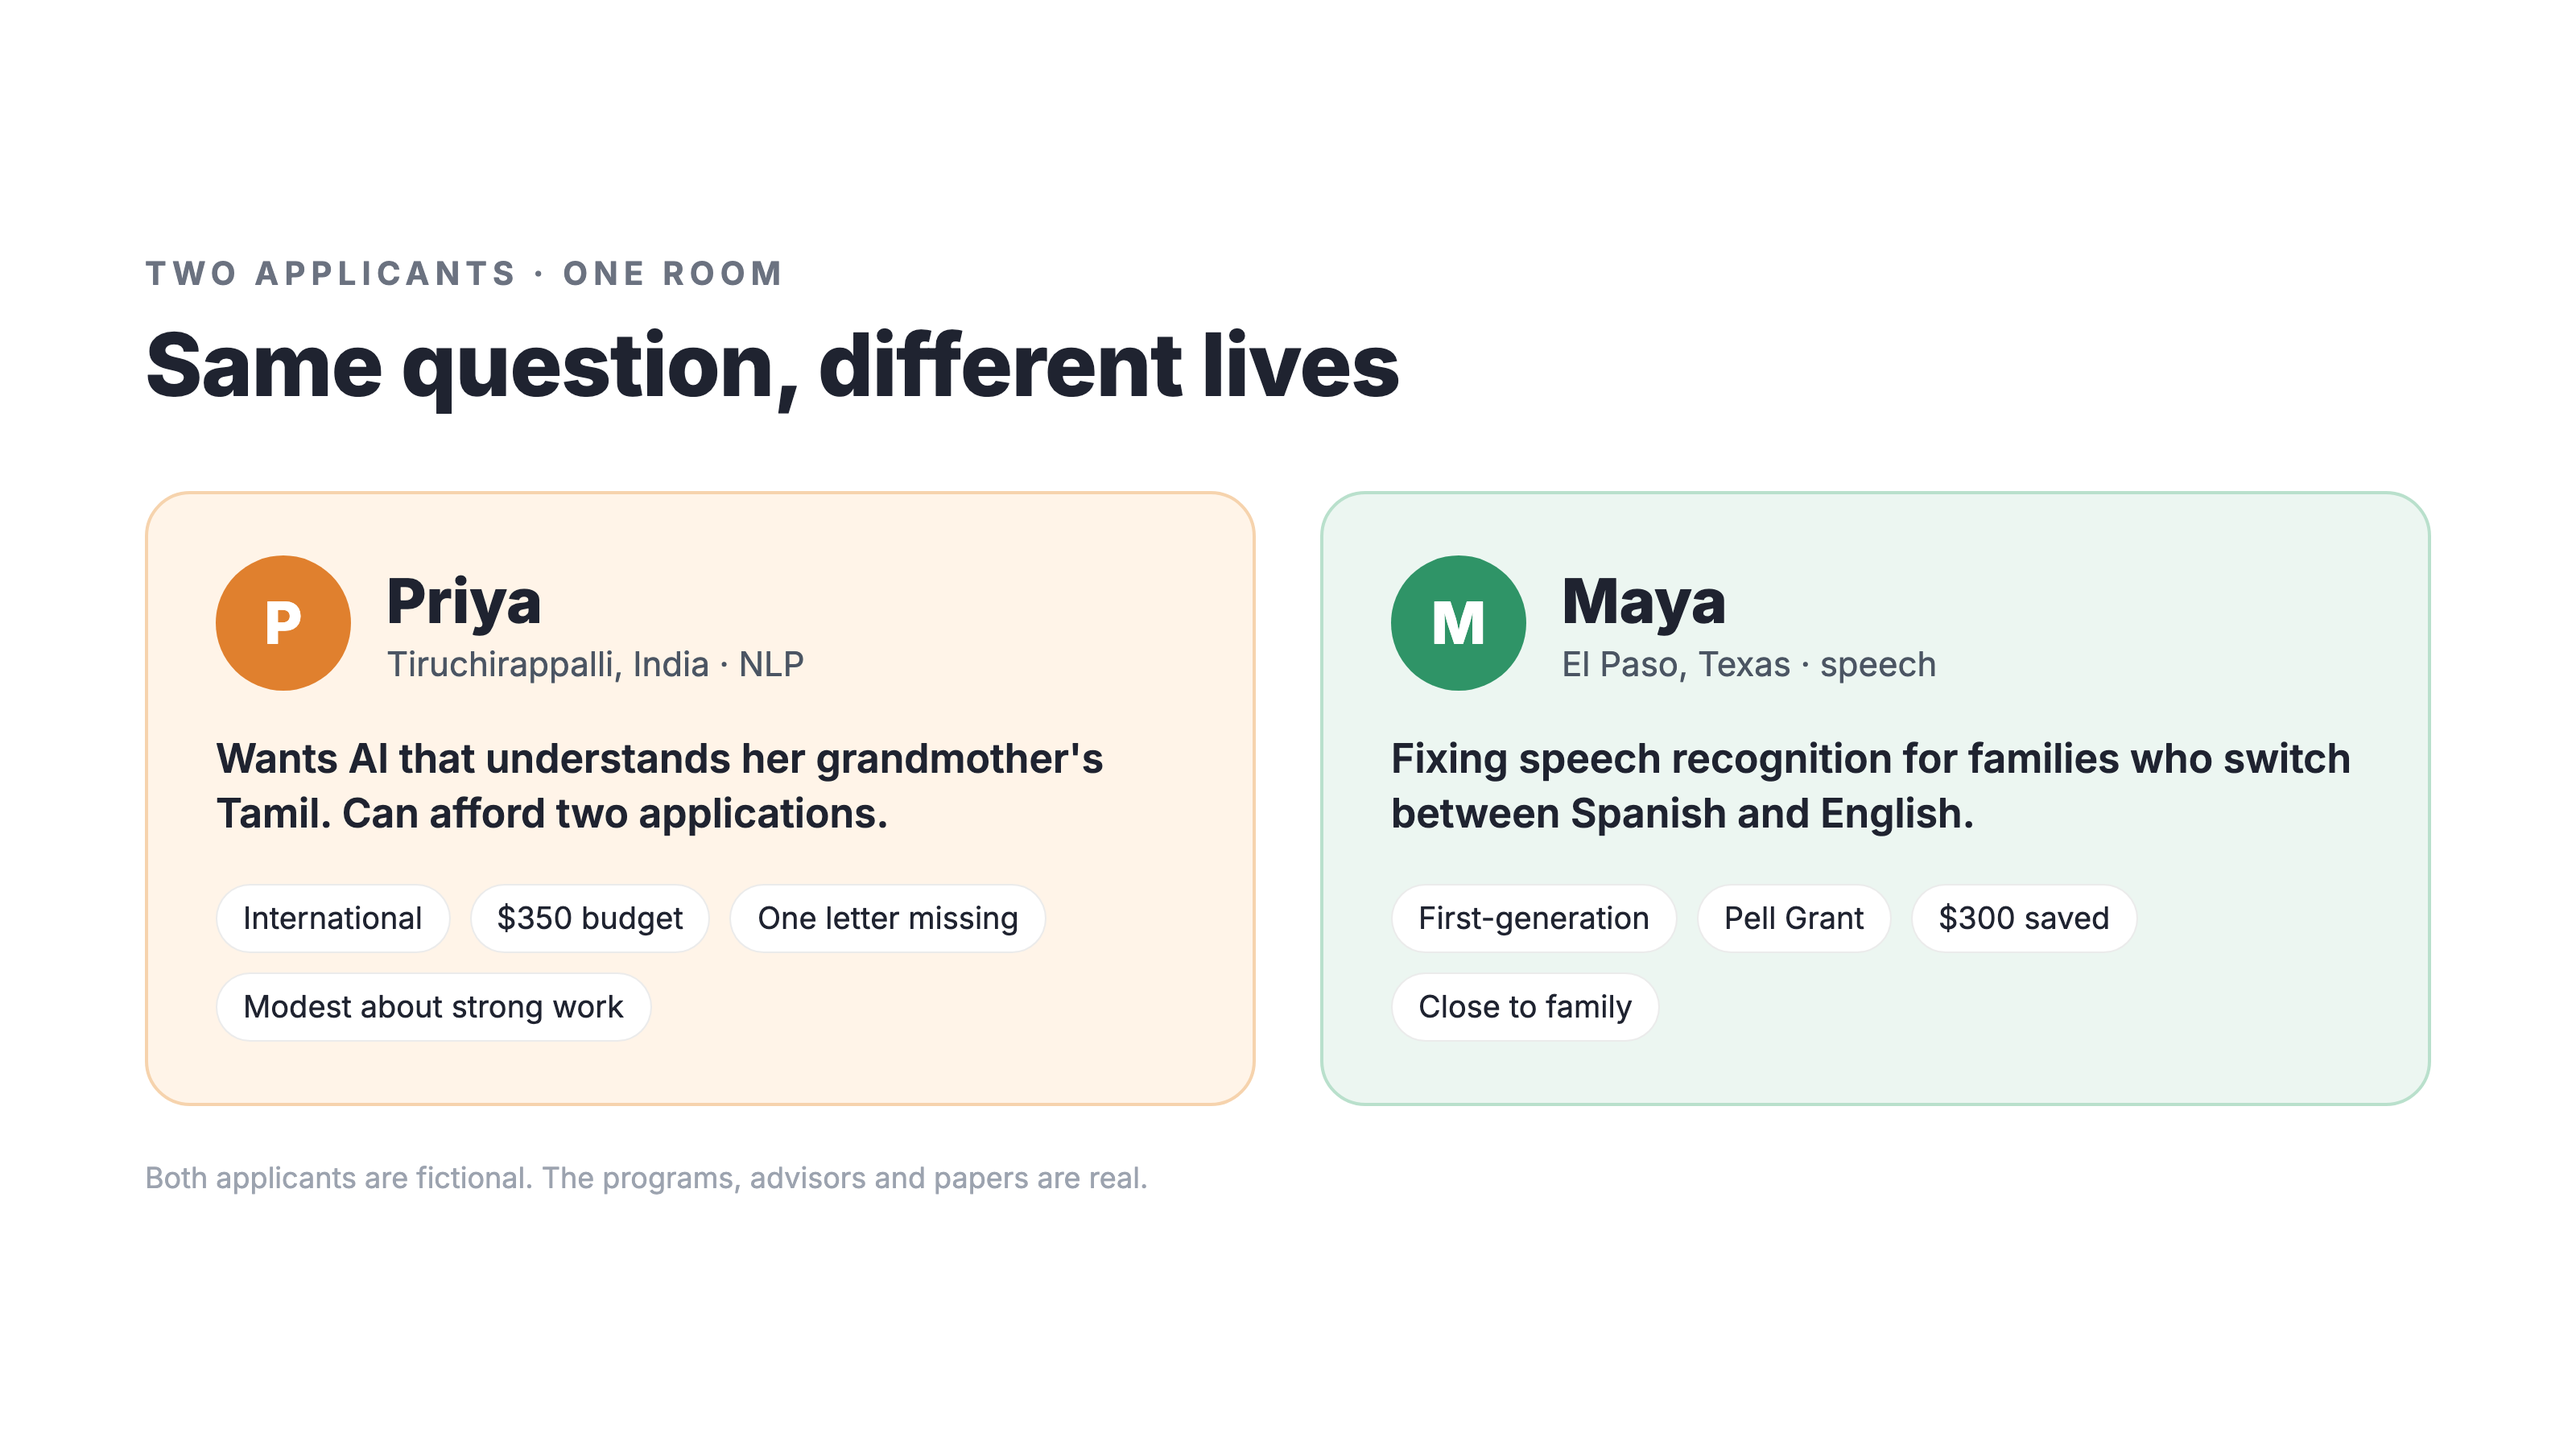
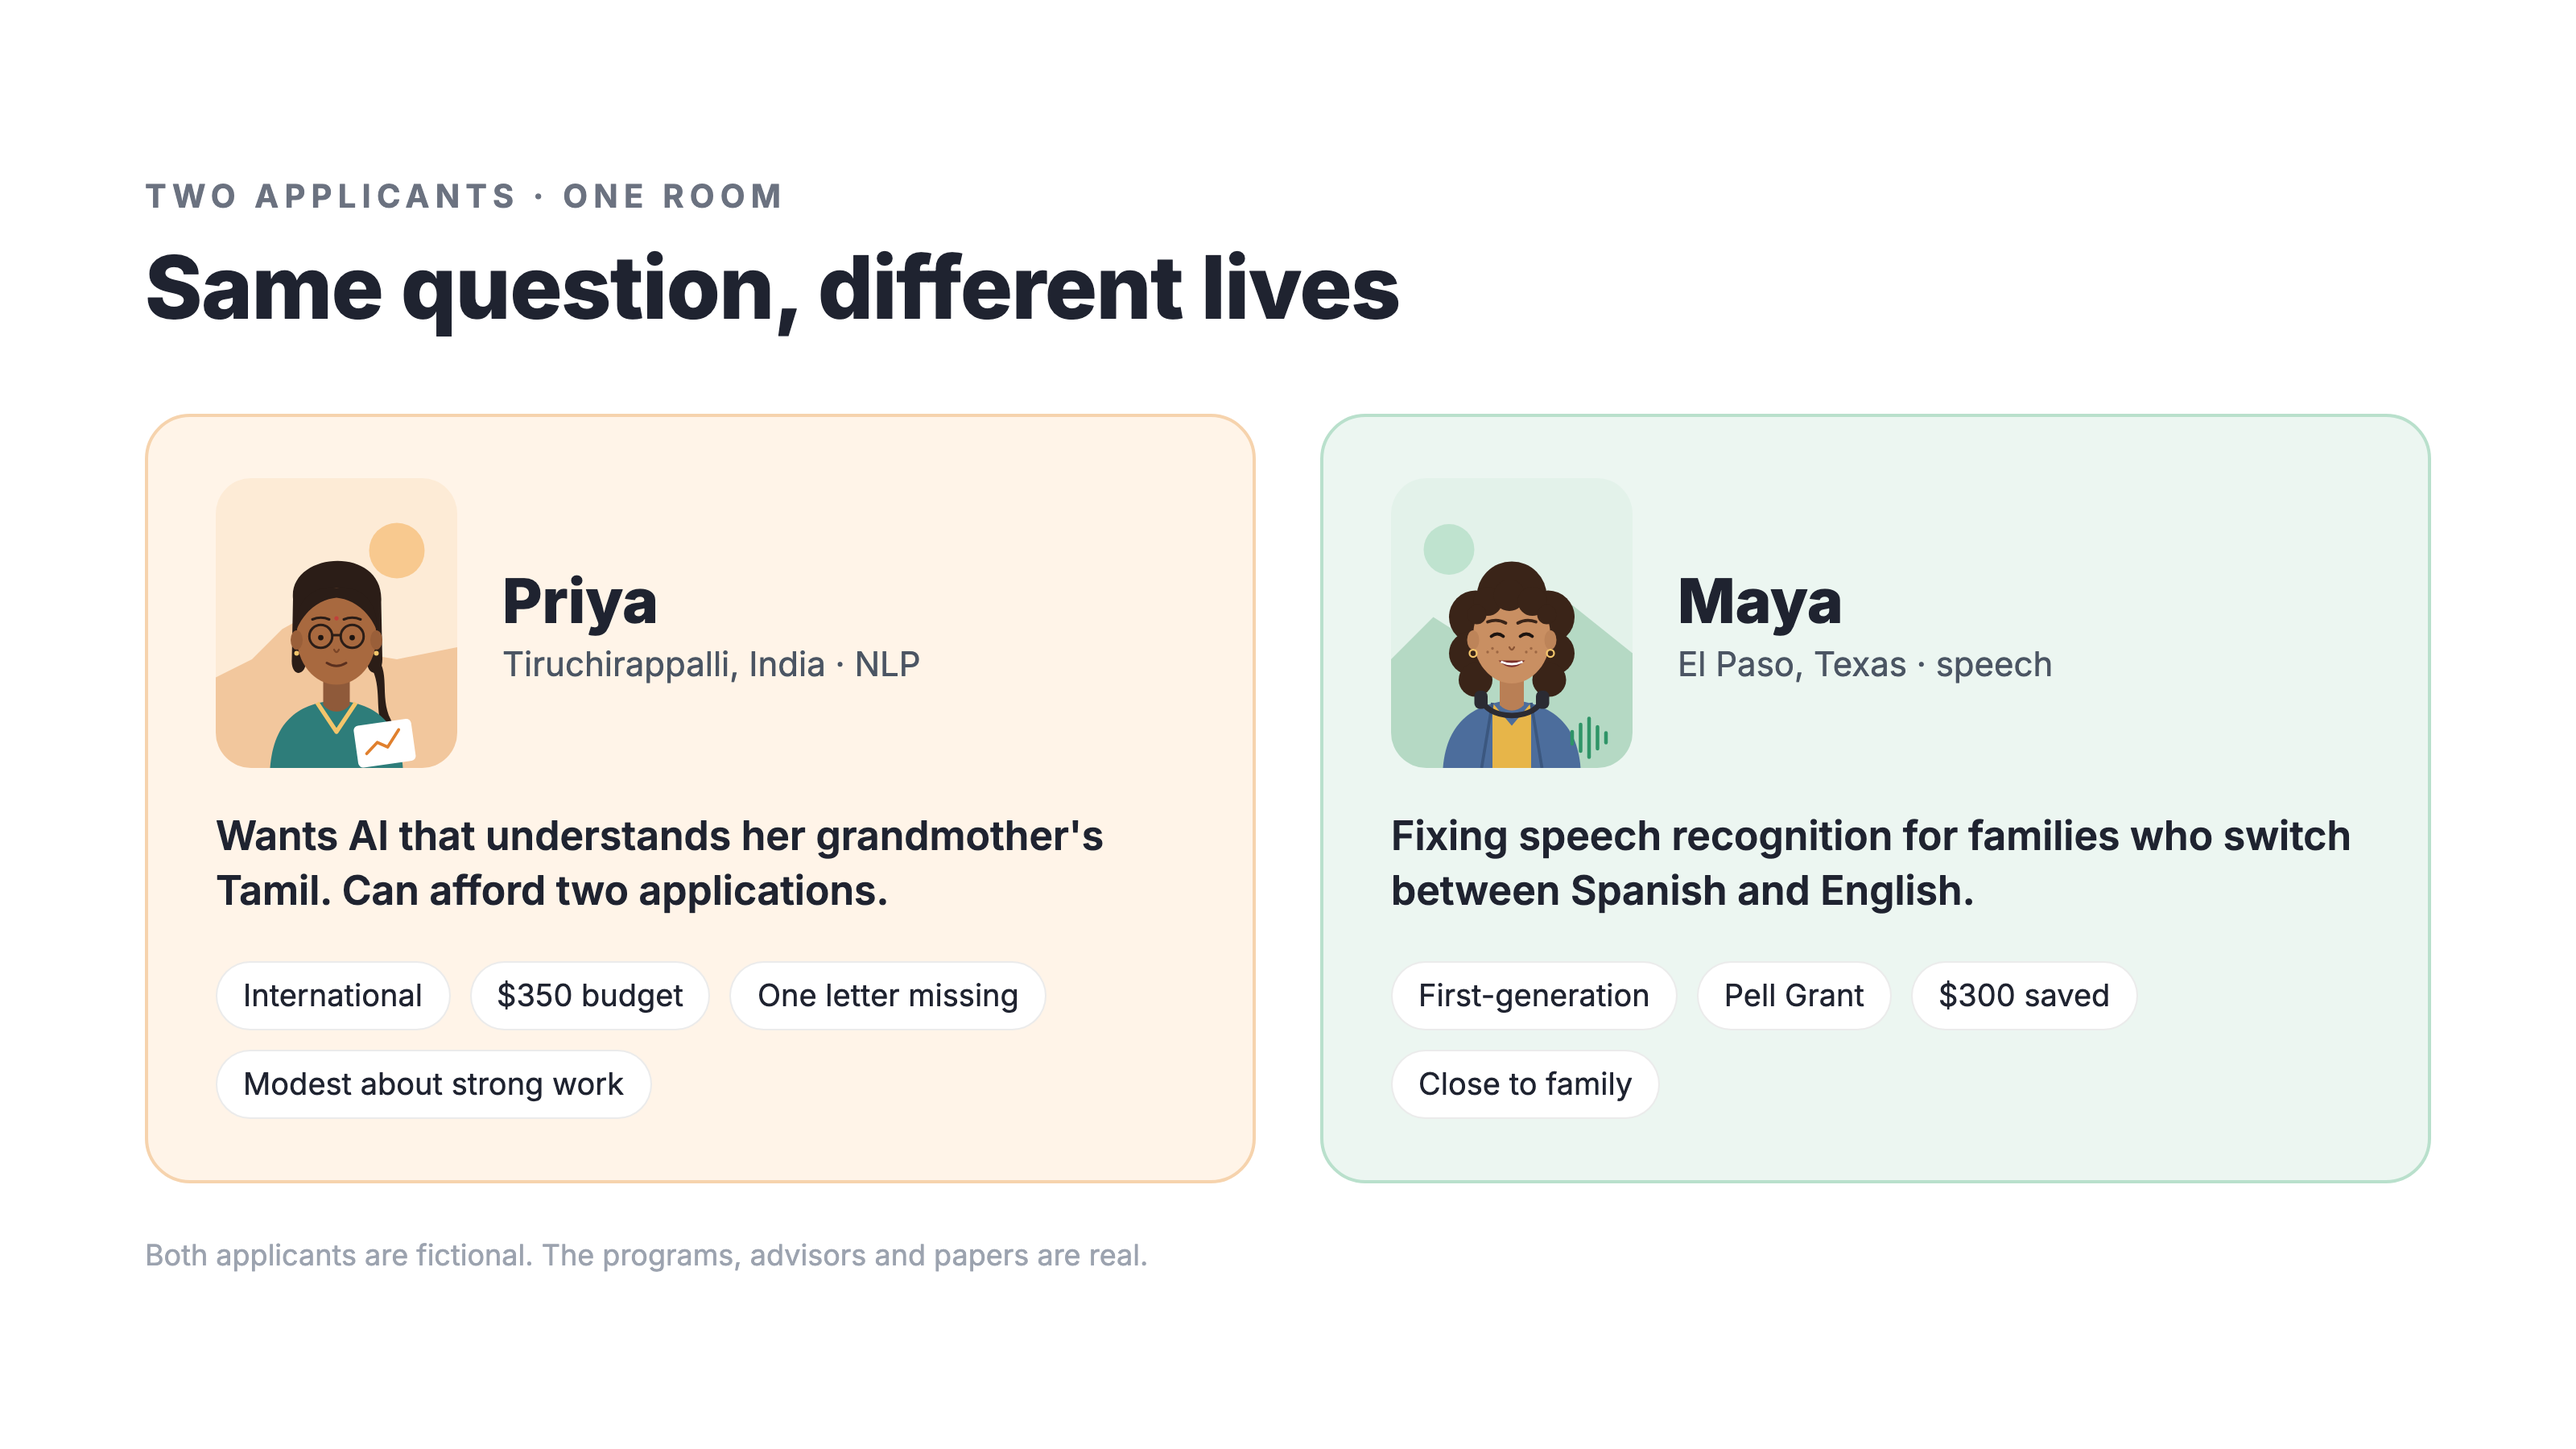
Persona pages with illustrated portraits: side-by-side comparison and a deep page per applicant

diff --git a/docs/video/personas.html b/docs/video/personas.html
@@ -9,9 +9,8 @@ h1{font-size:54px;font-weight:800;margin-top:12px;letter-spacing:-.01em}
 .card{flex:1;border-radius:28px;padding:38px 42px;}
 .p{background:#fff4e8;border:2px solid #f6d3ad}
 .m{background:#ecf6f1;border:2px solid #b9e0cc}
-.top{display:flex;align-items:center;gap:22px}
-.mono{width:84px;height:84px;border-radius:50%;display:grid;place-items:center;font-size:36px;font-weight:800;color:#fff}
-.p .mono{background:#e0802e}.m .mono{background:#2f9467}
+.top{display:flex;align-items:center;gap:28px}
+.pic{width:150px;height:180px;border-radius:22px;flex:none}
 .name{font-size:38px;font-weight:800}
 .where{font-size:21px;color:#4b5563;margin-top:4px}
 .line{font-size:25px;line-height:1.35;margin-top:26px;font-weight:600}
@@ -23,12 +22,12 @@ h1{font-size:54px;font-weight:800;margin-top:12px;letter-spacing:-.01em}
 <h1>Same question, different lives</h1>
 <div class="row">
  <div class="card p">
-  <div class="top"><div class="mono">P</div><div><div class="name">Priya</div><div class="where">Tiruchirappalli, India · NLP</div></div></div>
+  <div class="top"><img class="pic" src="art/priya.svg"><div><div class="name">Priya</div><div class="where">Tiruchirappalli, India · NLP</div></div></div>
   <div class="line">Wants AI that understands her grandmother's Tamil. Can afford two applications.</div>
   <div class="tags"><span class="tag">International</span><span class="tag">$350 budget</span><span class="tag">One letter missing</span><span class="tag">Modest about strong work</span></div>
  </div>
  <div class="card m">
-  <div class="top"><div class="mono">M</div><div><div class="name">Maya</div><div class="where">El Paso, Texas · speech</div></div></div>
+  <div class="top"><img class="pic" src="art/maya.svg"><div><div class="name">Maya</div><div class="where">El Paso, Texas · speech</div></div></div>
   <div class="line">Fixing speech recognition for families who switch between Spanish and English.</div>
   <div class="tags"><span class="tag">First-generation</span><span class="tag">Pell Grant</span><span class="tag">$300 saved</span><span class="tag">Close to family</span></div>
  </div>

diff --git a/docs/video/maya.html b/docs/video/maya.html
@@ -1,0 +1,22 @@
+<!doctype html><html><head><meta charset="utf-8">
+<link href="https://fonts.googleapis.com/css2?family=Inter:wght@400;600;700;800&display=swap" rel="stylesheet">
+<link rel="stylesheet" href="deep.css">
+<style>:root{--soft:#ecf6f1;--line:#b9e0cc;--ink:#237350;--accent:#8fd3b0}</style></head><body>
+<img class="pic" src="art/maya.svg">
+<div class="right">
+ <div class="eyebrow">Applicant two · fictional</div>
+ <h1>Maya, from El Paso</h1>
+ <div class="sub">First-generation CS senior fixing speech recognition for families who switch between Spanish and English.</div>
+ <div class="grid">
+  <div class="c"><b>Why a PhD</b><p>A clinic phone line keeps mishearing her dad when he switches languages.</p></div>
+  <div class="c"><b>What she has</b><p>$300 saved from tutoring. Pell Grant. Three letters, one needs a summary.</p></div>
+  <div class="c"><b>What worries her</b><p>Fees. Moving far from family. Sounding like she doesn't belong.</p></div>
+  <div class="c"><b>Five years out</b><p>Leading speech work for bilingual communities, maybe at a Hispanic-Serving Institution.</p></div>
+  <div class="c"><b>How she talks</b><p>Direct and funny. "How much does it cost?" Switches to Spanish mid-message.</p></div>
+  <div class="c"><b>What she needs</b><p>Money first, then fit. Her data treated as the asset it is.</p></div>
+ </div>
+ <div class="found"><b>What the room found for her</b>
+  <ul><li>All three fees come to $285, so she can apply everywhere even with no waiver.</li>
+  <li>Each school has a waiver she qualifies for, quoted line by line.</li>
+  <li>UMD's waiver must be requested by about Nov 13: first on her calendar.</li></ul></div>
+</div></body></html>

diff --git a/docs/video/priya.html b/docs/video/priya.html
@@ -1,0 +1,22 @@
+<!doctype html><html><head><meta charset="utf-8">
+<link href="https://fonts.googleapis.com/css2?family=Inter:wght@400;600;700;800&display=swap" rel="stylesheet">
+<link rel="stylesheet" href="deep.css">
+<style>:root{--soft:#fff4e8;--line:#f6d3ad;--ink:#b5601a;--accent:#f6b36b}</style></head><body>
+<img class="pic" src="art/priya.svg">
+<div class="right">
+ <div class="eyebrow">Applicant one · fictional</div>
+ <h1>Priya, from Tiruchirappalli</h1>
+ <div class="sub">Final-year CS student who measures how AI fails people who talk like her family. First in the family to apply abroad.</div>
+ <div class="grid">
+  <div class="c"><b>Why a PhD</b><p>Her grandmother speaks only Tamil. Every voice assistant failed her.</p></div>
+  <div class="c"><b>What she has</b><p>$350 from her parents. Enough for two schools. Two strong letters, one missing.</p></div>
+  <div class="c"><b>What worries her</b><p>Picking the wrong two. Writing about herself. Rent on a stipend.</p></div>
+  <div class="c"><b>Five years out</b><p>Leading evaluation for Indian languages, in industry research or as faculty.</p></div>
+  <div class="c"><b>How she talks</b><p>Polite and exact. Says "not sure it's strong enough" about strong work.</p></div>
+  <div class="c"><b>What she needs</b><p>The date or number first. Proof, line by line, when her work is good.</p></div>
+ </div>
+ <div class="found"><b>What the room found for her</b>
+  <ul><li>As an F-1 applicant, only Cornell's fee waiver is open to her.</li>
+  <li>Her strongest evidence is evaluation, so she leads with it, not speech.</li>
+  <li>Cut "I'm not sure this is strong enough": it was.</li></ul></div>
+</div></body></html>

diff --git a/docs/video/deep.css b/docs/video/deep.css
@@ -1,0 +1,15 @@
+*{box-sizing:border-box;margin:0}
+body{width:1600px;height:900px;background:#fff;font-family:Inter,sans-serif;color:#1f2330;display:flex;gap:56px;padding:64px 80px;align-items:center}
+.pic{width:430px;flex:none;border-radius:36px}
+.right{flex:1}
+.eyebrow{font-size:18px;font-weight:700;letter-spacing:.18em;text-transform:uppercase;color:#6b7280}
+h1{font-size:50px;font-weight:800;margin-top:8px;letter-spacing:-.01em}
+.sub{font-size:23px;color:#4b5563;margin-top:8px;line-height:1.35}
+.grid{display:grid;grid-template-columns:1fr 1fr 1fr;gap:16px;margin-top:28px}
+.c{border-radius:20px;padding:18px 20px;background:var(--soft);border:1.5px solid var(--line)}
+.c b{display:block;font-size:14px;letter-spacing:.12em;text-transform:uppercase;color:var(--ink);margin-bottom:8px}
+.c p{font-size:18.5px;line-height:1.38}
+.found{margin-top:18px;border-radius:20px;padding:18px 22px;background:#fff;border:2px solid var(--line);border-left:8px solid var(--ink)}
+.found b{font-size:14px;letter-spacing:.12em;text-transform:uppercase;color:var(--ink)}
+.found ul{margin:8px 0 0 0;padding-left:20px;font-size:18.5px;line-height:1.45}
+.foot{font-size:14px;color:#9ca3af;margin-top:14px}
